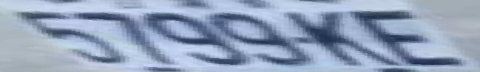
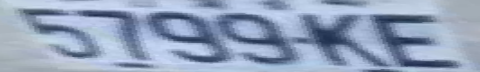
add pytesserect

diff --git a/ui_main.py b/ui_main.py
@@ -1,4 +1,4 @@
-# Form implementation generated from reading ui file 'nyoba.ui'
+# Form implementation generated from reading ui file 'ui_main.ui'
 #
 # Created by: PyQt6 UI code generator 6.4.2
 #
@@ -681,6 +681,8 @@ class Ui_Form(object):
         self.label_9.setObjectName("label_9")
         self.verticalLayout_8.addWidget(self.label_9)
         self.frame_16 = QtWidgets.QFrame(parent=self.frame_5)
+        self.frame_16.setMinimumSize(QtCore.QSize(0, 0))
+        self.frame_16.setMaximumSize(QtCore.QSize(16777215, 16777215))
         self.frame_16.setFrameShape(QtWidgets.QFrame.Shape.NoFrame)
         self.frame_16.setFrameShadow(QtWidgets.QFrame.Shadow.Raised)
         self.frame_16.setObjectName("frame_16")
@@ -728,10 +730,25 @@ class Ui_Form(object):
         self.label_16 = QtWidgets.QLabel(parent=self.frame_20)
         self.label_16.setObjectName("label_16")
         self.horizontalLayout_15.addWidget(self.label_16)
-        self.label_15 = QtWidgets.QLabel(parent=self.frame_20)
-        self.label_15.setObjectName("label_15")
-        self.horizontalLayout_15.addWidget(self.label_15)
+        self.label_plt_in = QtWidgets.QLabel(parent=self.frame_20)
+        self.label_plt_in.setObjectName("label_plt_in")
+        self.horizontalLayout_15.addWidget(self.label_plt_in)
         self.verticalLayout_5.addWidget(self.frame_20)
+        self.frame_28 = QtWidgets.QFrame(parent=self.frame_16)
+        self.frame_28.setFrameShape(QtWidgets.QFrame.Shape.NoFrame)
+        self.frame_28.setFrameShadow(QtWidgets.QFrame.Shadow.Raised)
+        self.frame_28.setObjectName("frame_28")
+        self.horizontalLayout_23 = QtWidgets.QHBoxLayout(self.frame_28)
+        self.horizontalLayout_23.setContentsMargins(0, 0, 0, 0)
+        self.horizontalLayout_23.setSpacing(1)
+        self.horizontalLayout_23.setObjectName("horizontalLayout_23")
+        self.label_17 = QtWidgets.QLabel(parent=self.frame_28)
+        self.label_17.setObjectName("label_17")
+        self.horizontalLayout_23.addWidget(self.label_17)
+        self.label_plt_out = QtWidgets.QLabel(parent=self.frame_28)
+        self.label_plt_out.setObjectName("label_plt_out")
+        self.horizontalLayout_23.addWidget(self.label_plt_out)
+        self.verticalLayout_5.addWidget(self.frame_28)
         self.frame_21 = QtWidgets.QFrame(parent=self.frame_16)
         self.frame_21.setFrameShape(QtWidgets.QFrame.Shape.NoFrame)
         self.frame_21.setFrameShadow(QtWidgets.QFrame.Shadow.Raised)
@@ -747,21 +764,6 @@ class Ui_Form(object):
         self.label_20.setObjectName("label_20")
         self.horizontalLayout_16.addWidget(self.label_20)
         self.verticalLayout_5.addWidget(self.frame_21)
-        self.frame_22 = QtWidgets.QFrame(parent=self.frame_16)
-        self.frame_22.setFrameShape(QtWidgets.QFrame.Shape.NoFrame)
-        self.frame_22.setFrameShadow(QtWidgets.QFrame.Shadow.Raised)
-        self.frame_22.setObjectName("frame_22")
-        self.horizontalLayout_17 = QtWidgets.QHBoxLayout(self.frame_22)
-        self.horizontalLayout_17.setContentsMargins(0, 0, 0, 0)
-        self.horizontalLayout_17.setSpacing(1)
-        self.horizontalLayout_17.setObjectName("horizontalLayout_17")
-        self.label_19 = QtWidgets.QLabel(parent=self.frame_22)
-        self.label_19.setObjectName("label_19")
-        self.horizontalLayout_17.addWidget(self.label_19)
-        self.label_info_media_path = QtWidgets.QLabel(parent=self.frame_22)
-        self.label_info_media_path.setObjectName("label_info_media_path")
-        self.horizontalLayout_17.addWidget(self.label_info_media_path)
-        self.verticalLayout_5.addWidget(self.frame_22)
         self.frame_26 = QtWidgets.QFrame(parent=self.frame_16)
         self.frame_26.setFrameShape(QtWidgets.QFrame.Shape.NoFrame)
         self.frame_26.setFrameShadow(QtWidgets.QFrame.Shadow.Raised)
@@ -857,17 +859,17 @@ class Ui_Form(object):
         self.btn_stop.setText(_translate("Form", "Stop"))
         self.label_9.setText(_translate("Form", "Information"))
         self.label_11.setText(_translate("Form", "Type Camera"))
-        self.label_info_media_type.setText(_translate("Form", ": Camera_url"))
+        self.label_info_media_type.setText(_translate("Form", ": "))
         self.label_23.setText(_translate("Form", "Count Cars  "))
-        self.label_24.setText(_translate("Form", ": 1"))
-        self.label_16.setText(_translate("Form", "Number Plate "))
-        self.label_15.setText(_translate("Form", ": D 7812 A"))
+        self.label_24.setText(_translate("Form", ": "))
+        self.label_16.setText(_translate("Form", "Number Plate In"))
+        self.label_plt_in.setText(_translate("Form", ": "))
+        self.label_17.setText(_translate("Form", "Number Plate Out"))
+        self.label_plt_out.setText(_translate("Form", ": "))
         self.label_18.setText(_translate("Form", "Date/Time "))
-        self.label_20.setText(_translate("Form", ": 09/05/24-13:00"))
-        self.label_19.setText(_translate("Form", "Status"))
-        self.label_info_media_path.setText(_translate("Form", ": Entry"))
+        self.label_20.setText(_translate("Form", ": "))
         self.label_21.setText(_translate("Form", "Parameter"))
-        self.label_info_parameter_used.setText(_translate("Form", ": Entaniya"))
+        self.label_info_parameter_used.setText(_translate("Form", ": "))
         self.label_13.setText(_translate("Form", "Fisheye Camera"))
 
 

diff --git a/contoller.py b/contoller.py
@@ -6,7 +6,6 @@ from .ui_main import Ui_Form
 import cv2
 # from moildev import Moildev
 
-
 from ultralytics import YOLO
 from matplotlib import pyplot as pl
 import numpy as np
@@ -47,12 +46,12 @@ class Controller(QWidget):
         self.yaw_in_m2 = -38
         self.roll_in_m2 = 35
         self.zoom_in_m2 = 1
-        self.rotate_in_m2 = -43
+        self.rotate_in_m2 = -8
         self.pitch_out_m2 = 20
         self.yaw_out_m2= 38
         self.roll_out_m2 = 1
         self.zoom_out_m2 = 1
-        self.rotate_out_m2 = 0
+        self.rotate_out_m2 = 19
         self.set_stylesheet()
 
     def set_stylesheet(self):
@@ -181,7 +180,7 @@ class Controller(QWidget):
 
         # tombol predict sementara
         self.ui.btn_params_cam.clicked.connect(self.predict_model)
-        # self.ui.btn_params_cam.clicked.connect(self.tes_read)
+        # self.ui.btn_params_cam.clicked.connect(self.pytes)
 
         self.value_connect_maps_any_m1()
         self.value_connect_maps_any_m2()
@@ -473,8 +472,10 @@ class Controller(QWidget):
 
         label_in = '/home/gritzz/Documents/moilapp/runs/detect/predict/labels/result-g-in.txt'
         label_out = '/home/gritzz/Documents/moilapp/runs/detect/predict/labels/result-g-out.txt'
-        plate_in = self.cut_plate(src_in, label_in, 1)
-        plate_out = self.cut_plate(src_out, label_out, 0)
+        self.cut_plate(src_in, label_in, 1)
+        self.cut_plate(src_out, label_out, 0)
+
+        self.pytes()
 
     def tes_read(self):
         import pytesseract
@@ -539,12 +540,12 @@ class Controller(QWidget):
 
         # plt.imshow(cv2.cvtColor(crop, cv2.COLOR_BGR2RGB))
 
-        reader = easyocr.Reader(['id'], gpu=False)
-        result = reader.readtext(crop)
-        # text = result[0][-2] + ' ' + result[1][-2]
-        text = result[0][-2]
-
-        print(text)
+        # reader = easyocr.Reader(['id'], gpu=False)
+        # result = reader.readtext(crop)
+        # # text = result[0][-2] + ' ' + result[1][-2]
+        # text = result[0][-2]
+        #
+        # print(text)
 
         # plate_img = cv2.imread('/content/runs/detect/predict/test2.jpg')
         #font = cv2.FONT_HERSHEY_SIMPLEX
@@ -552,6 +553,23 @@ class Controller(QWidget):
 
         #cv2.imwrite('/content/drive/MyDrive/training/recognation.jpg', plate_img)
         #plt.imshow(cv2.cvtColor(plate_img, cv2.COLOR_BGR2RGB))
+
+    def pytes(self):
+        import pytesseract
+        print("mulai")
+        img1 = cv2.imread("./plugins/moilapp-plugin-parking-gate-system-aziz/processing/plate-in.png")
+        img2 = cv2.imread("./plugins/moilapp-plugin-parking-gate-system-aziz/processing/plate-out.png")
+        img_rgb1 = cv2.cvtColor(img1, cv2.COLOR_BGR2RGB)
+        img_rgb2 = cv2.cvtColor(img2, cv2.COLOR_BGR2RGB)
+
+        # Menggunakan Tesseract untuk mengenali teks dengan opsi config
+        config = '--oem 3 --psm 8 -l eng+ind'
+        text_in = pytesseract.image_to_string(img_rgb1, config=config)
+        text_out = pytesseract.image_to_string(img_rgb2, config=config)
+
+        # Menampilkan teks yang dikenali
+        self.ui.label_plt_in.setText(f": {text_in}")
+        self.ui.label_plt_out.setText(f": {text_out}")
 
     def readimg(self):
         reader = easyocr.Reader(['id'])
